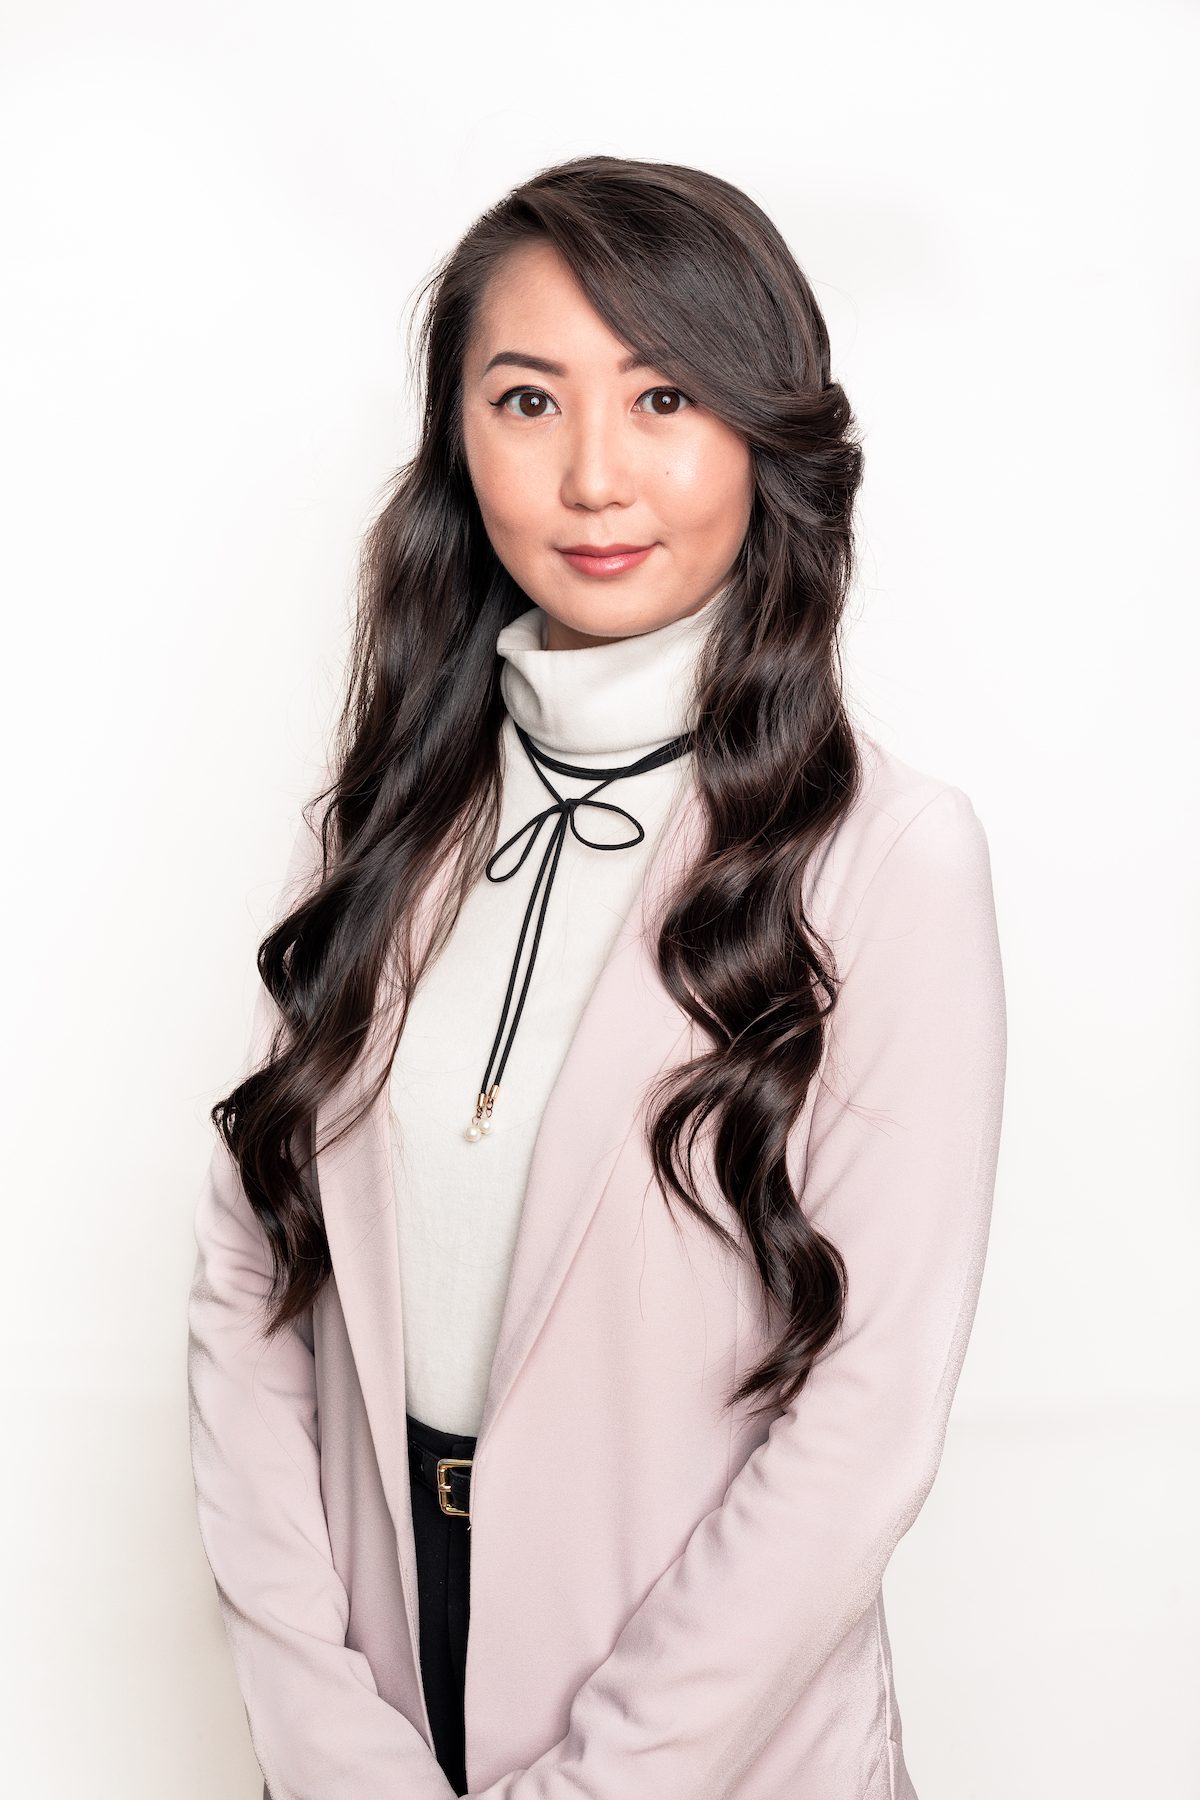
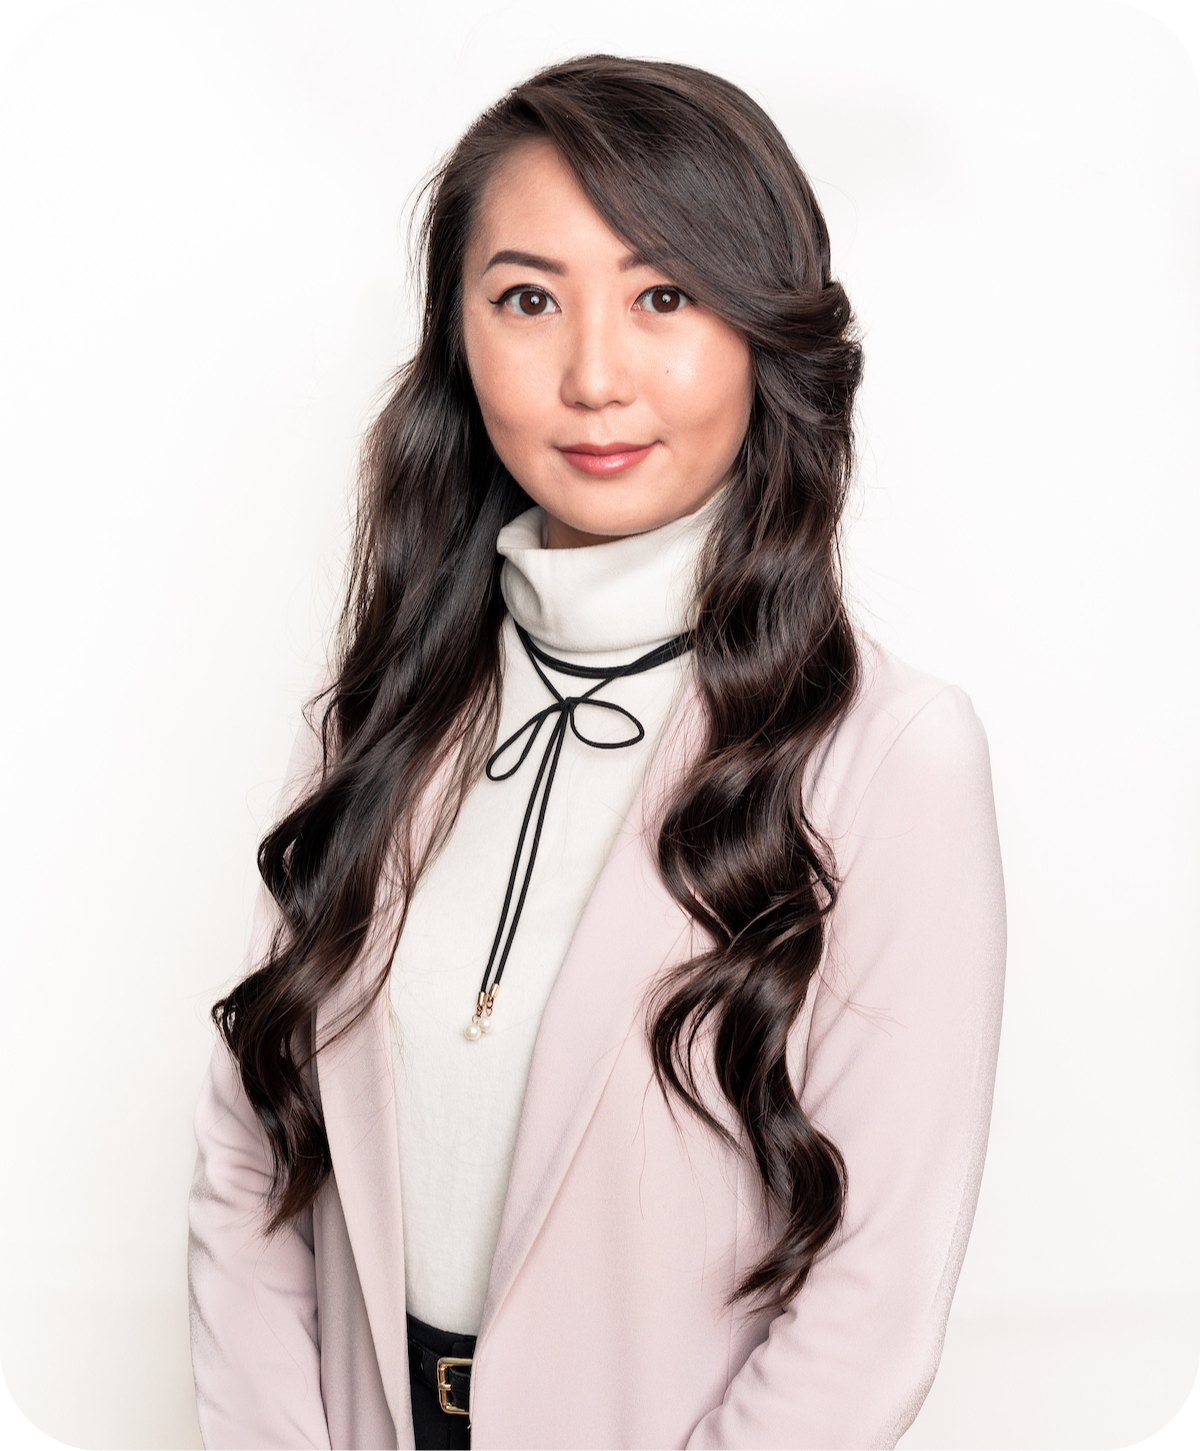
crop and round corners of headshot

diff --git a/index.html b/index.html
@@ -33,7 +33,8 @@
       <div id="hero">
         <div class="container">
           <h1>
-            <span>Hello! I'm Christina Thai <span>
+            <span>              <picture>
+                            <source srcset="img/mamas/hello-small.png" media="(max-width:767px)">
           </h1>
           <p>A UX designer, master planner, empathetic introvert and cat lover from Vancouver, Canada.<br>I am passionate about improving the lives of others through the creation of thoughtful designs.</p>
         </div>

diff --git a/mamas.html b/mamas.html
@@ -198,8 +198,7 @@
         <b><p>Interested in working together?</p></b>
         <div>
           <a href="mailto:christinaaathai@gmail.com" class="button contact">Let's Chat!</a>
-        </div>
-        <div>
+<!--This is where <div></div> used to be-->
           <a href="https://www.linkedin.com/in/christina-thai-76bba1211/" target="_blank">
             <svg viewBox="0 0 256 256" xmlns="http://www.w3.org/2000/svg" class="linkedin">
               <rect fill="none" height="256" width="256" />
